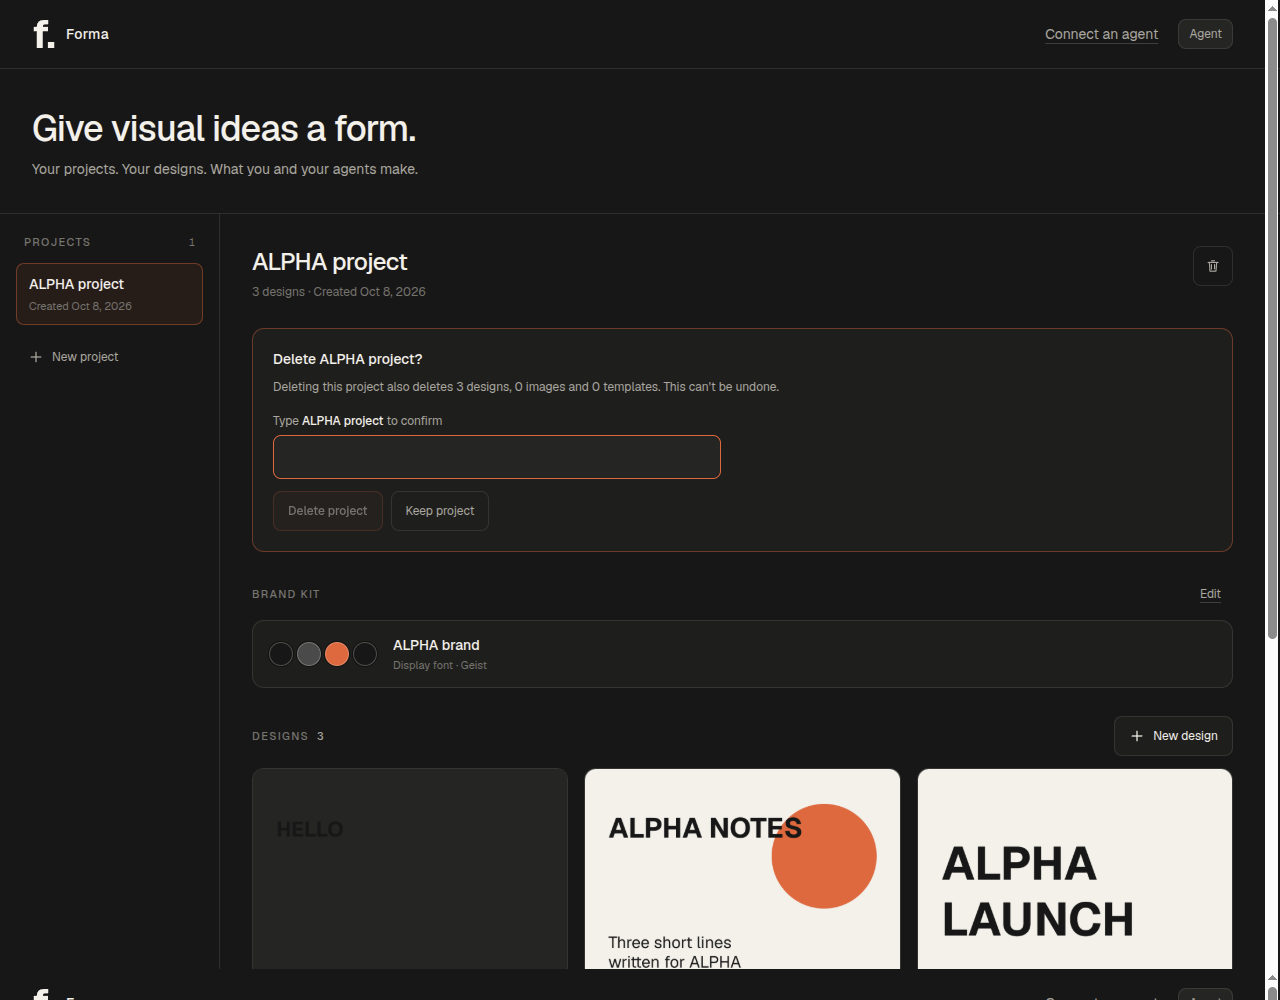
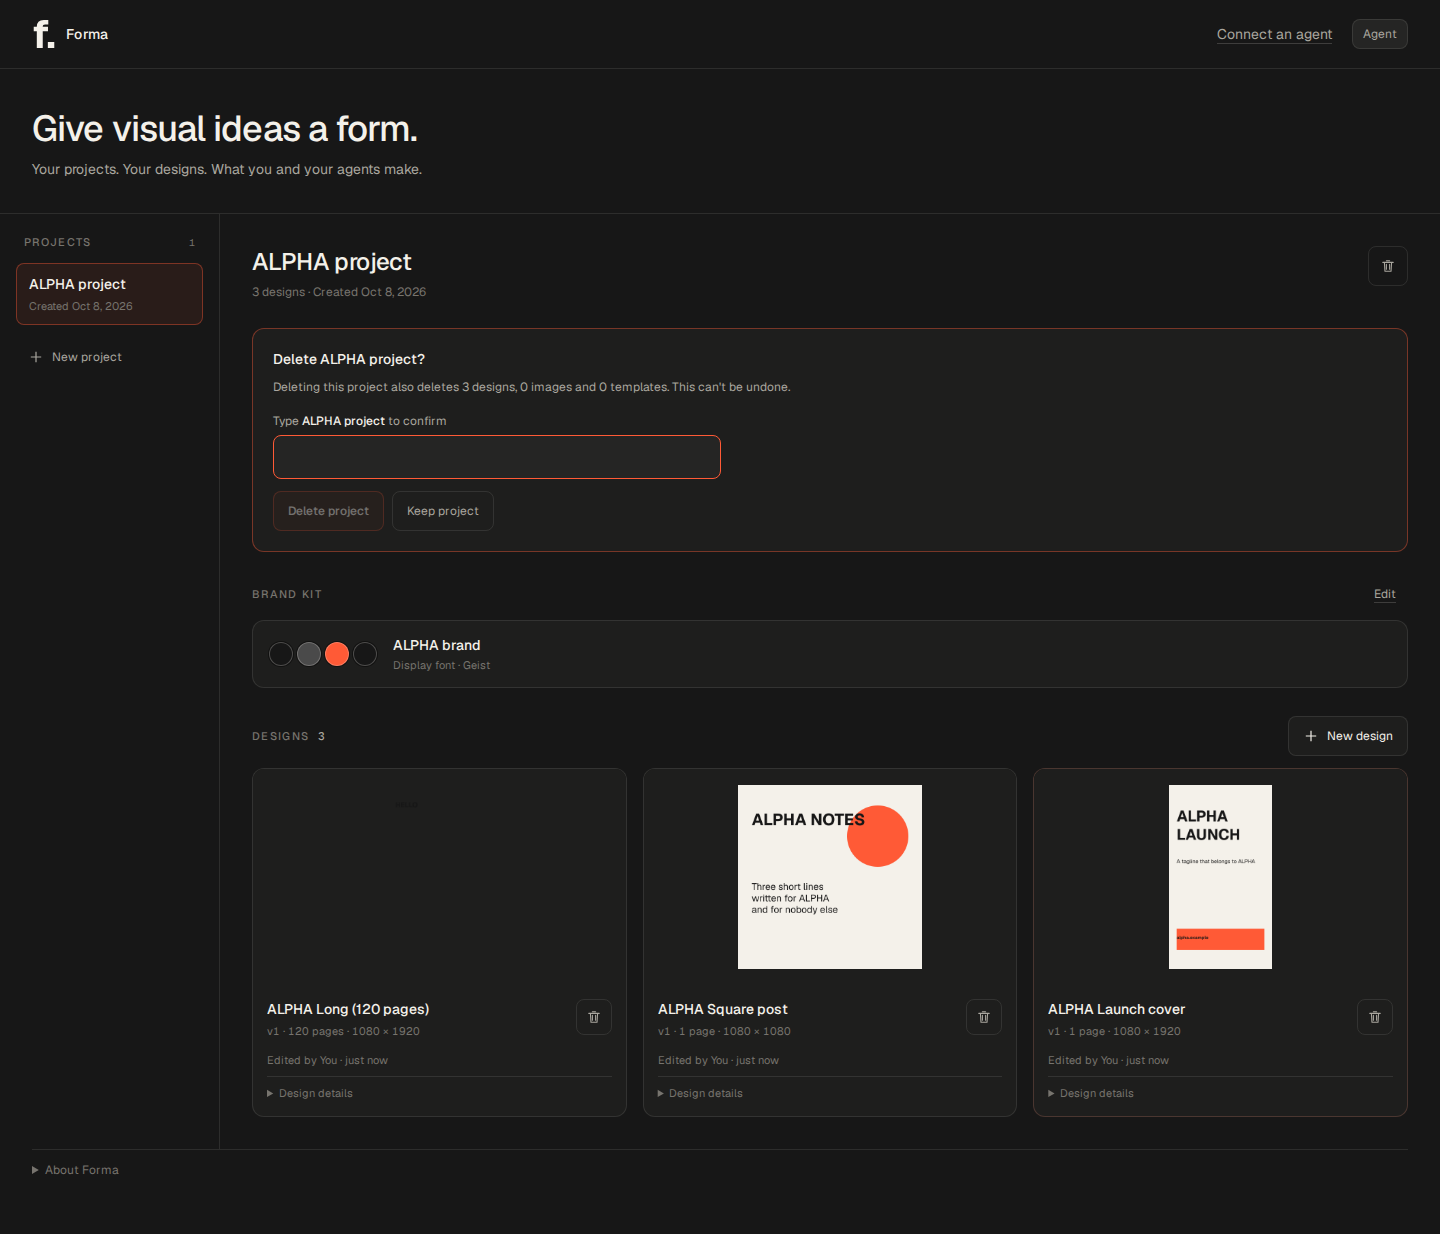
fix: standardize project design previews

diff --git a/apps/web/src/Projects.test.tsx b/apps/web/src/Projects.test.tsx
@@ -114,15 +114,19 @@ function renderProjects(onOpen = vi.fn(), options: Parameters<typeof createBacke
   return { ...view, backend, onOpen };
 }
 
+function stubPreviewObjectUrls() {
+  const TestURL = class extends URL {};
+  Object.defineProperty(TestURL, "createObjectURL", { value: vi.fn(() => "blob:preview") });
+  Object.defineProperty(TestURL, "revokeObjectURL", { value: vi.fn() });
+  vi.stubGlobal("URL", TestURL);
+  vi.stubGlobal("IntersectionObserver", undefined);
+}
+
 afterEach(() => vi.unstubAllGlobals());
 
 describe("the projects home", () => {
   it("shows project details, design history, page-one preview and image requests", async () => {
-    const TestURL = class extends URL {};
-    Object.defineProperty(TestURL, "createObjectURL", { value: vi.fn(() => "blob:preview") });
-    Object.defineProperty(TestURL, "revokeObjectURL", { value: vi.fn() });
-    vi.stubGlobal("URL", TestURL);
-    vi.stubGlobal("IntersectionObserver", undefined);
+    stubPreviewObjectUrls();
     const request = {
       id: "r1",
       project_id: "p1",
@@ -151,9 +155,56 @@ describe("the projects home", () => {
     expect(screen.getByText("2 h ago", { selector: "time" }).className).toContain("whitespace-nowrap");
     const preview = await screen.findByRole("img", { name: /page 1 of launch cover/i });
     expect(preview.getAttribute("loading")).toBe("lazy");
+    expect(preview.className).toContain("object-contain");
+    expect(preview.parentElement?.className).toContain("h-[180px]");
+    expect(preview.parentElement?.className).toContain("sm:h-[216px]");
+    expect(preview.parentElement?.className).toContain("bg-surface");
+    expect(preview.parentElement?.className).toContain("p-3");
+    expect(screen.getByText("Page 1 preview")).toBeTruthy();
+    fireEvent.load(preview);
+    expect(screen.queryByText("Page 1 preview")).toBeNull();
     expect(backend.calls.some((call) => call.path === "/api/v1/designs/d1/pages/page-1/preview.png"))
       .toBe(true);
     expect(screen.getByText("Design details")).toBeTruthy();
+  });
+
+  it("shows the quiet placeholder when the page preview fails to load", async () => {
+    stubPreviewObjectUrls();
+    renderProjects();
+    fireEvent.click(await screen.findByRole("button", { name: /launch campaign/i }));
+
+    const preview = await screen.findByRole("img", { name: /page 1 of launch cover/i });
+    fireEvent.error(preview);
+
+    const placeholder = screen.getByText("Preview unavailable");
+    expect(placeholder.className).toContain("text-faint");
+    expect(screen.queryByRole("img", { name: /page 1 of launch cover/i })).toBeNull();
+  });
+
+  it("uses one fixed preview well for square, portrait, story, and landscape designs", async () => {
+    const dimensions = [
+      [1080, 1080],
+      [1080, 1350],
+      [1080, 1920],
+      [1920, 1080],
+    ];
+    const designs = dimensions.map(([width, height], index) => ({
+      ...summary,
+      id: `d${index + 1}`,
+      name: ["Square", "Portrait", "Story", "Landscape"][index],
+      format: { preset: "custom", width, height },
+      first_page_id: `page-${index + 1}`,
+    }));
+    renderProjects(vi.fn(), { designs });
+    fireEvent.click(await screen.findByRole("button", { name: /launch campaign/i }));
+
+    for (const name of ["Square", "Portrait", "Story", "Landscape"]) {
+      const open = await screen.findByRole("button", { name: `Open ${name}` });
+      const well = open.firstElementChild;
+      expect(well?.className).toContain("h-[180px]");
+      expect(well?.className).toContain("sm:h-[216px]");
+      expect(well?.className).toContain("bg-surface");
+    }
   });
 
   it("offers a blank design form with the requested format choices and opens the created design", async () => {

diff --git a/apps/web/src/Projects.tsx b/apps/web/src/Projects.tsx
@@ -852,23 +852,26 @@ function DesignCard({
         onClick={onOpen}
         disabled={confirming}
         aria-label={`Open ${design.name}`}
-        className="group relative block w-full overflow-hidden bg-surface-2 text-left disabled:cursor-default"
-        style={{ aspectRatio: `${width} / ${height}` }}
+        className="group relative block w-full overflow-hidden bg-surface text-left disabled:cursor-default"
       >
-        <span className="absolute inset-0 grid place-items-center text-xs text-faint" aria-hidden={pageId !== null && previewLoaded && !previewFailed}>
-          {previewFailed ? "Preview unavailable" : "Page 1 preview"}
+        <span className="relative flex h-[180px] w-full items-center justify-center overflow-hidden bg-surface p-3 sm:h-[216px] sm:p-4">
+          {(!previewLoaded || previewFailed || !pageId) && (
+            <span className="absolute inset-0 grid place-items-center text-xs text-faint">
+              {previewFailed ? "Preview unavailable" : "Page 1 preview"}
+            </span>
+          )}
+          {pageId && !previewFailed && (
+            <img
+              ref={previewRef}
+              src={previewSrc ?? undefined}
+              alt={`Page 1 of ${design.name}`}
+              loading="lazy"
+              onLoad={() => setPreviewLoaded(true)}
+              onError={() => setPreviewFailed(true)}
+              className={`h-full w-full object-contain transition-opacity duration-200 ${previewLoaded ? "opacity-100" : "opacity-0"} ${confirming ? "opacity-35 grayscale" : ""}`}
+            />
+          )}
         </span>
-        {pageId && !previewFailed && (
-          <img
-            ref={previewRef}
-            src={previewSrc ?? undefined}
-            alt={`Page 1 of ${design.name}`}
-            loading="lazy"
-            onLoad={() => setPreviewLoaded(true)}
-            onError={() => setPreviewFailed(true)}
-            className={`absolute inset-0 h-full w-full object-cover transition-opacity duration-200 ${previewLoaded ? "opacity-100" : "opacity-0"} ${confirming ? "opacity-35 grayscale" : ""}`}
-          />
-        )}
         {confirming && <span className="absolute inset-0 bg-ink/35" aria-hidden="true" />}
       </button>
 

diff --git a/docs/ux/pages-batch-2.md b/docs/ux/pages-batch-2.md
@@ -19,8 +19,9 @@ prototype is not built (as in UX batch 1, C-6).
   an unknown agent is **"An agent"**; `System` is **"Forma"**.
 - **P-3 Thumbnails are page 1's existing preview.** `DesignSummary` gains `first_page_id`; the card shows
   `/designs/{id}/pages/{page}/preview.png` (cached per version by the server), loaded lazily
-  (`loading="lazy"`) with a quiet placeholder until it arrives, and the format's aspect ratio reserved so the
-  grid never jumps.
+  (`loading="lazy"`) inside a fixed-height Surface preview well (216px desktop, 180px mobile) with padding and
+  `object-fit: contain`. The quiet placeholder stays until the image loads or falls back on error, keeping cards
+  the same height across formats.
 - **P-4 "Save as template" is added to the editor.** The route exists (`POST /designs/{id}/template`) and no
   screen offers it, so without it the home page's template picker would be empty. A small action beside Export,
   asking only for a name. The home page shows "Start from a template" only when the project has templates.
